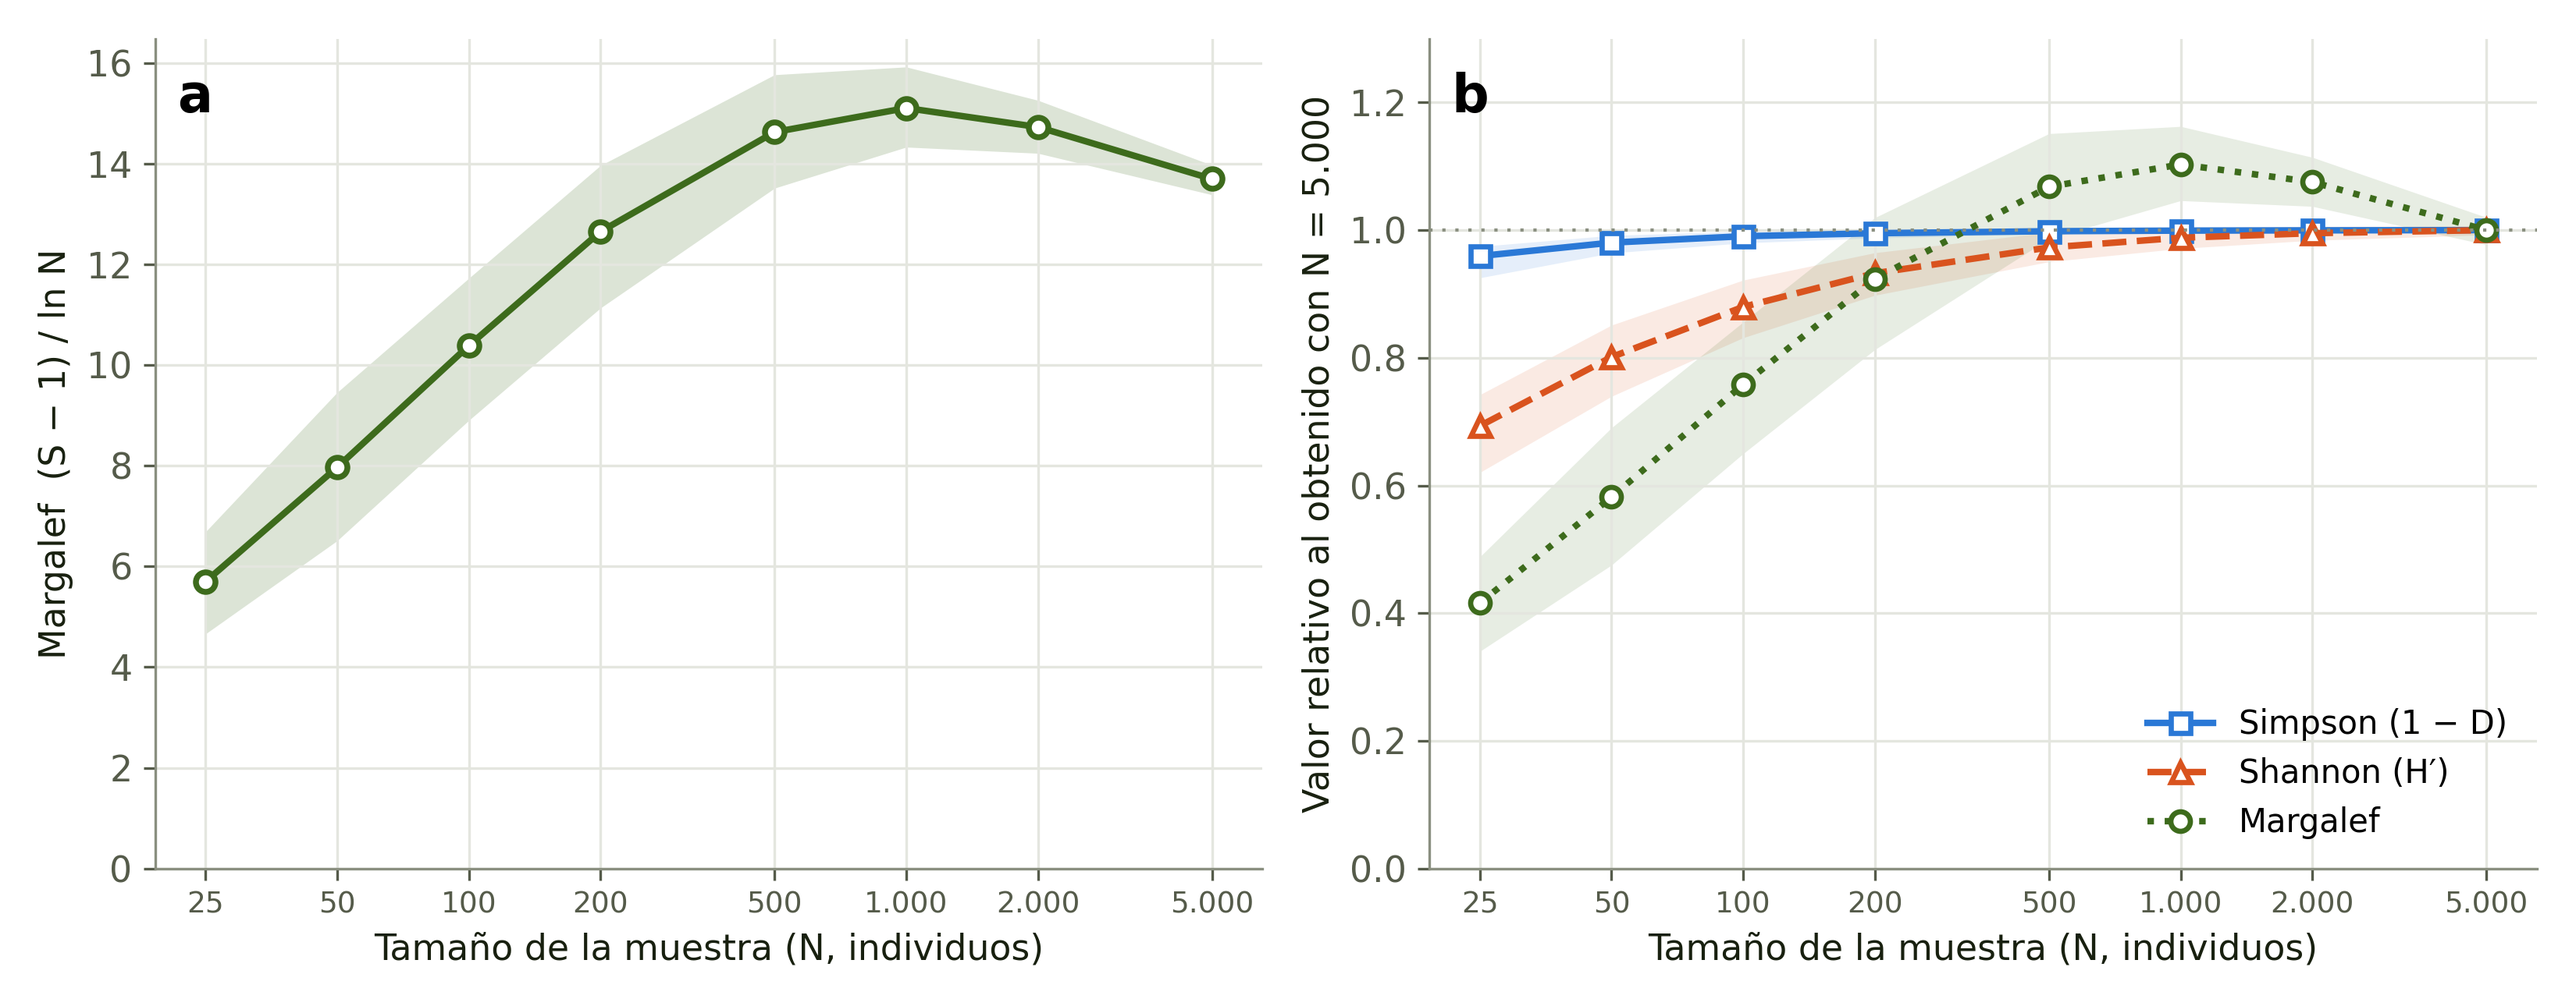
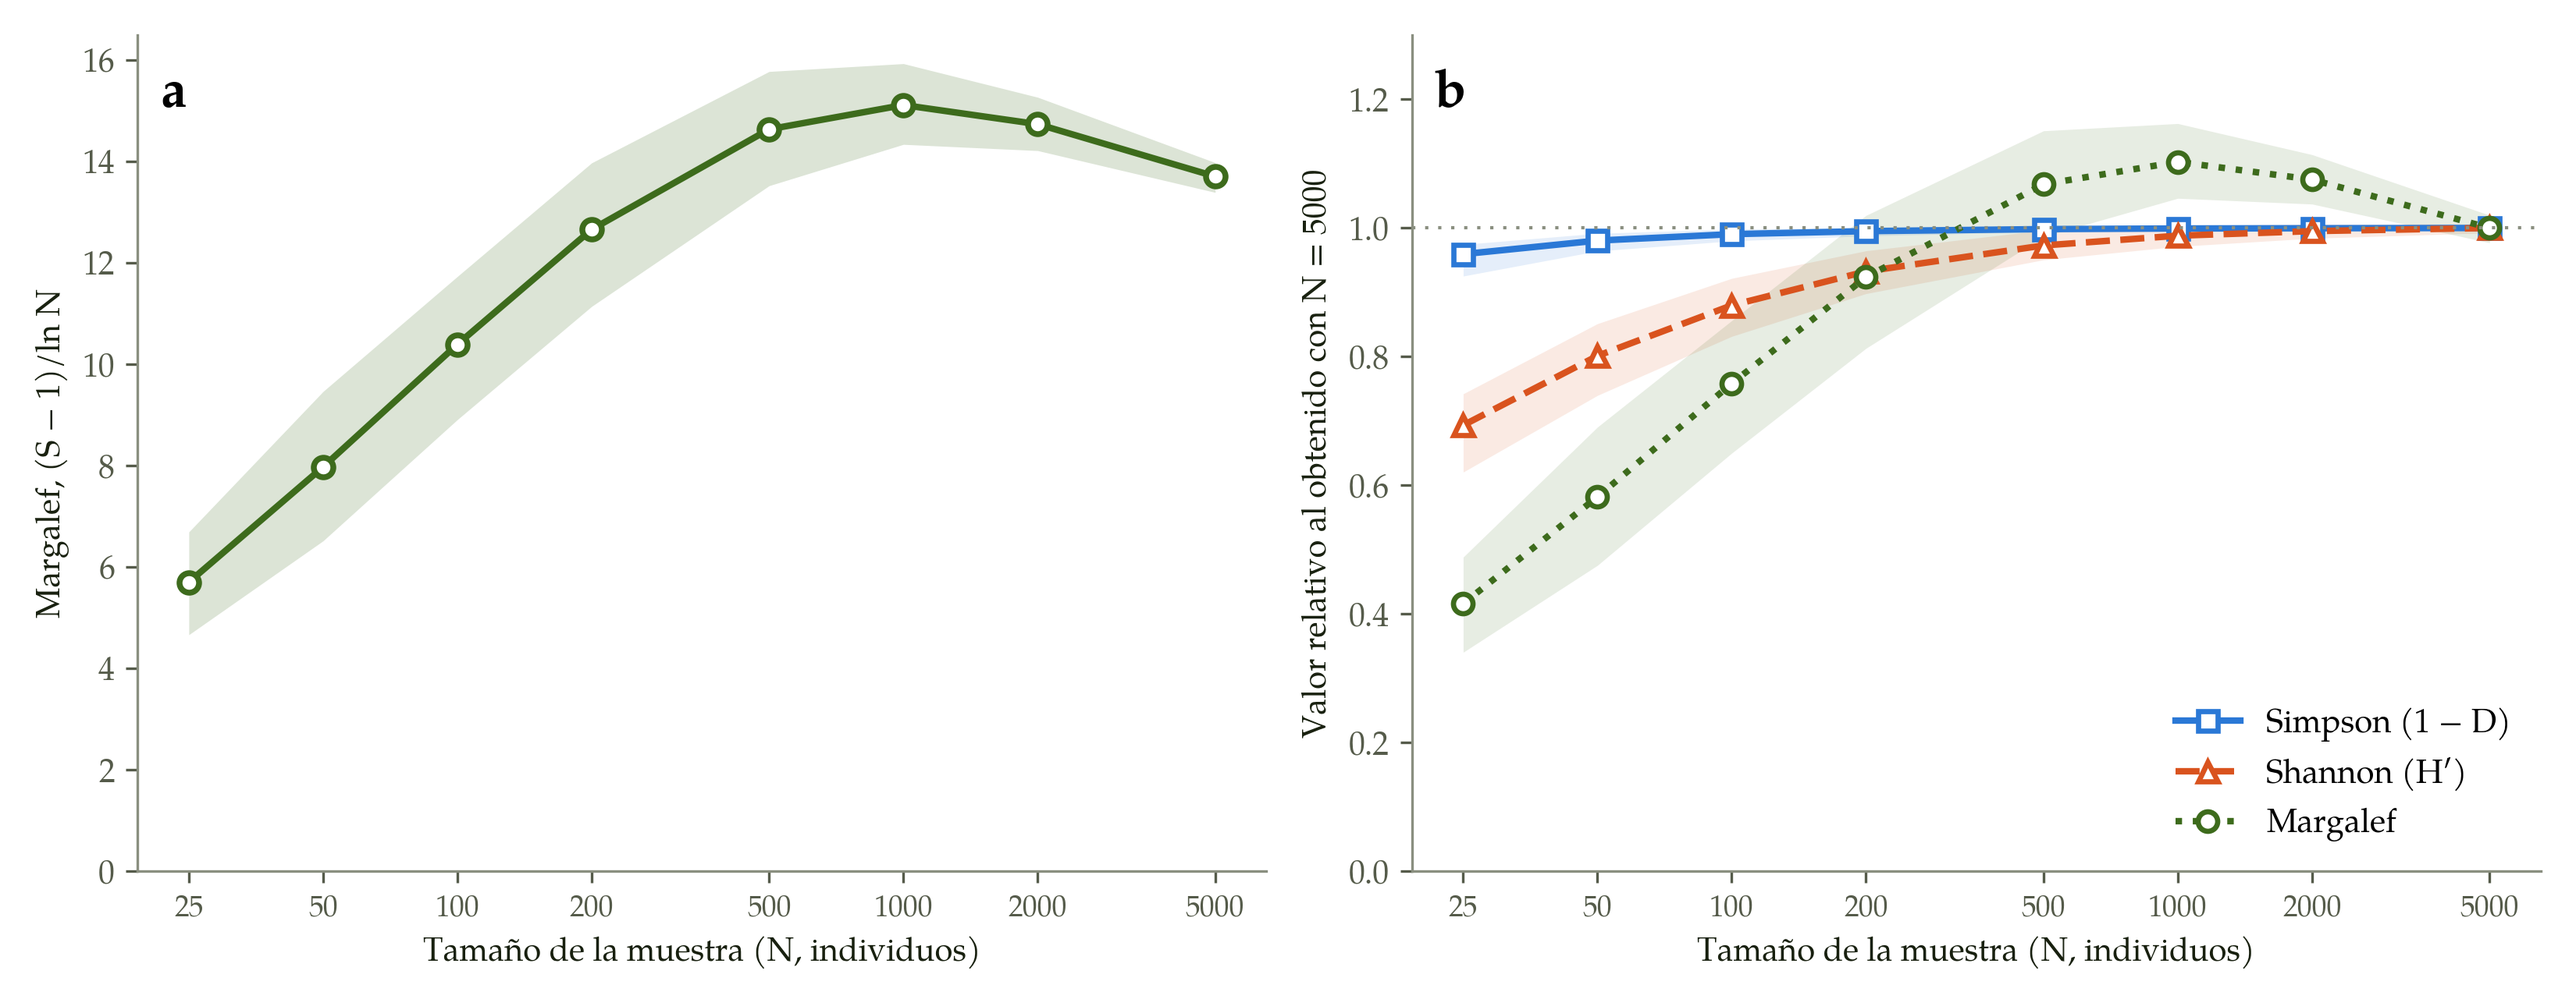
Figuras redibujadas con matplotlib; scripts nuevos

diff --git a/figuras/fig1_calcular.js b/figuras/fig1_calcular.js
@@ -1,0 +1,19 @@
+// Calcula con las funciones de Kenti (extraídas sin modificar) los resultados de la Figura 1.
+const fs=require('fs');
+const src=fs.readFileSync(__dirname+'/../verificacion/kenti_core.js','utf8');
+globalThis.pcaVarDefs=()=>[{k:'S'},{k:'N'},{k:'J'},{k:'H'}];
+globalThis.okNum=x=>x!=null&&isFinite(x);
+eval(src+';globalThis.K={alpha,brayCurtis,upgma,pcaCompute}');
+const S0=JSON.parse(fs.readFileSync(__dirname+'/sim_state.json','utf8'));
+const I={sites:S0.state.sites.map(x=>x.code),names:S0.state.sites.map(x=>x.name),counts:S0.counts};
+const n=I.counts.length;
+const M=I.counts.map((a,i)=>I.counts.map((b,j)=>i===j?1:K.brayCurtis(a,b)));
+const U=K.upgma(M);
+const clean=t=>t.leaf?{leaf:true,members:t.members}:{h:t.h,members:t.members,left:clean(t.left),right:clean(t.right)};
+const rows=I.counts.map(v=>{const a=K.alpha(v);return {S:a.S,N:a.N,J:a.J,H:a.H};});
+const P=K.pcaCompute(rows,['S','N','J','H']);
+const out={sites:I.sites,names:I.names,bc:M,ccc:U.ccc,tree:clean(U.root),
+ vars:P.vars.map(v=>v.k),pct:P.comps.map(c=>c.pct),loadings:P.comps.map(c=>c.loadings),scores:P.comps.map(c=>c.scores)};
+fs.writeFileSync(__dirname+'/fig1_out.json',JSON.stringify(out));
+console.log('ccc',U.ccc.toFixed(3),'pct',P.comps.map(c=>c.pct.toFixed(1)).join(' '));
+console.log(M.map(r=>r.map(x=>x.toFixed(2)).join(' ')).join('\n'));

diff --git a/figuras/fig1_graficar.py b/figuras/fig1_graficar.py
@@ -1,0 +1,59 @@
+# Figura 1: dibuja con matplotlib los resultados calculados por fig1_calcular.js (funciones de Kenti).
+import json,numpy as np,matplotlib,glob
+matplotlib.use('Agg')
+import matplotlib.pyplot as plt
+from matplotlib import font_manager as fm
+for f in glob.glob('/usr/share/texmf/fonts/opentype/public/tex-gyre/texgyrepagella-*.otf'): fm.fontManager.addfont(f)
+plt.rcParams.update({'font.family':'TeX Gyre Pagella','font.size':9,'axes.spines.top':False,'axes.spines.right':False,'axes.linewidth':0.8,'mathtext.fontset':'stix'})
+O=json.load(open('fig1_out.json'))
+sites=O['sites']; n=len(sites); BC=np.array(O['bc'])
+fig=plt.figure(figsize=(7.2,6.6),dpi=300)
+gs=fig.add_gridspec(2,2,height_ratios=[1,1.15],hspace=0.38,wspace=0.32,left=0.08,right=0.98,top=0.92,bottom=0.08)
+def tag(ax,l): ax.text(-0.02,1.06,l,transform=ax.transAxes,fontsize=13,fontweight='bold',va='bottom',ha='right')
+# a) matriz de Bray-Curtis
+a=fig.add_subplot(gs[0,0]); tag(a,'a')
+Mm=np.ma.masked_where(np.eye(n,dtype=bool),BC)
+im=a.imshow(Mm,cmap='Greens',vmin=0.3,vmax=1,aspect='equal')
+for i in range(n):
+    for j in range(n):
+        if i!=j:
+            a.text(j,i,f'{BC[i,j]:.2f}',ha='center',va='center',fontsize=7.5,color='white' if BC[i,j]>0.6 else 'black')
+a.set_xticks(range(n)); a.set_yticks(range(n)); a.set_xticklabels(sites); a.set_yticklabels(sites)
+a.xaxis.tick_top(); a.tick_params(length=0)
+for s in a.spines.values(): s.set_visible(False)
+# b) dendrograma UPGMA
+b=fig.add_subplot(gs[0,1]); tag(b,'b')
+order=[]
+def leaves(t):
+    if 'left' not in t: order.append(t['members'][0]); return
+    leaves(t['left']); leaves(t['right'])
+leaves(O['tree']); ypos={m:i for i,m in enumerate(order)}
+def draw(t):
+    if 'left' not in t: return ypos[t['members'][0]],1.0
+    yl,hl=draw(t['left']); yr,hr=draw(t['right']); h=t['h']
+    b.plot([hl,h,h,hr],[yl,yl,yr,yr],color='black',lw=1)
+    return (yl+yr)/2,h
+draw(O['tree'])
+b.set_xlim(1,0); b.set_ylim(n-0.5,-0.5); b.set_yticks(range(n)); b.set_yticklabels([sites[m] for m in order])
+b.set_xlabel('Similitud de Bray-Curtis'); b.spines['left'].set_visible(False); b.tick_params(axis='y',length=0)
+b.text(0.98,0.08,f"Correlación cofenética = {O['ccc']:.3f}",transform=b.transAxes,ha='right',fontsize=8)
+# c) biplot PCA
+c=fig.add_subplot(gs[1,0]); tag(c,'c')
+sc1,sc2=np.array(O['scores'][0]),np.array(O['scores'][1]); L=np.array([O['loadings'][0],O['loadings'][1]]).T
+k=0.85*max(abs(sc1).max(),abs(sc2).max())/np.abs(L).max()
+c.axhline(0,color='#999999',lw=0.6,ls='--'); c.axvline(0,color='#999999',lw=0.6,ls='--')
+for i,s in enumerate(sites):
+    c.plot(sc1[i],sc2[i],'o',color='black',ms=5); c.annotate(s,(sc1[i],sc2[i]),xytext=(4,4),textcoords='offset points',fontsize=8)
+lab={'S':'S','N':'N','J':'J′','H':'H′'}
+for v,(lx,ly) in zip(O['vars'],L):
+    c.annotate('',xy=(lx*k,ly*k),xytext=(0,0),arrowprops=dict(arrowstyle='-|>',color='#d9531e',lw=1.4))
+    c.text(lx*k*1.1,ly*k*1.1,lab[v],color='#d9531e',fontsize=9,ha='center',va='center',fontweight='bold')
+c.set_xlabel(f"CP 1 ({O['pct'][0]:.1f}%)"); c.set_ylabel(f"CP 2 ({O['pct'][1]:.1f}%)")
+lim=max(abs(sc1).max(),abs(sc2).max(),np.abs(L).max()*k)*1.25; c.set_xlim(-lim,lim); c.set_ylim(-lim,lim); c.set_aspect('equal')
+# d) varianza explicada
+d=fig.add_subplot(gs[1,1]); tag(d,'d')
+p=O['pct']; d.bar(range(len(p)),p,color='#2a78d6',width=0.6)
+for i,v in enumerate(p): d.text(i,v+1.5,f'{v:.1f}%',ha='center',fontsize=8)
+d.set_xticks(range(len(p))); d.set_xticklabels([f'CP {i+1}' for i in range(len(p))]); d.set_ylim(0,100)
+d.set_ylabel('Varianza explicada (%)'); d.set_xlabel('Eje')
+fig.savefig('figura1.png',dpi=300,facecolor='white'); print('ok')

diff --git a/figuras/fig2_graficar.py b/figuras/fig2_graficar.py
@@ -3,8 +3,8 @@ matplotlib.use('Agg')
 import matplotlib.pyplot as plt
 from matplotlib import font_manager as fm
 import glob
-for f in glob.glob('/usr/share/fonts/**/DejaVuSans*.ttf',recursive=True): fm.fontManager.addfont(f)
-plt.rcParams.update({'font.family':'DejaVu Sans','font.size':11,'axes.spines.top':False,'axes.spines.right':False,'axes.edgecolor':'#8a8f80','axes.labelcolor':'#18200f','xtick.color':'#555b4a','ytick.color':'#555b4a','axes.grid':True,'grid.color':'#e4e6df','grid.linewidth':0.8})
+for f in glob.glob('/usr/share/texmf/fonts/opentype/public/tex-gyre/texgyrepagella-*.otf'): fm.fontManager.addfont(f)
+plt.rcParams.update({'font.family':'TeX Gyre Pagella','font.size':10,'axes.spines.top':False,'axes.spines.right':False,'axes.edgecolor':'#8a8f80','axes.labelcolor':'#18200f','xtick.color':'#555b4a','ytick.color':'#555b4a','axes.grid':False})
 O=json.load(open('fig2_out.json')); Ns=sorted(int(k) for k in O)
 def arr(k,key): return np.array([[r[key] for r in O[str(n)]] for n in Ns],float)
 Mg,H,Sp=arr(0,'Mg'),arr(0,'H'),arr(0,'Simp')
@@ -14,8 +14,8 @@ fig,ax=plt.subplots(1,2,figsize=(11,4.3),dpi=300)
 a=ax[0]
 a.fill_between(Ns,lo(Mg),hi(Mg),color=G,alpha=.18,lw=0)
 a.plot(Ns,mean(Mg),color=G,lw=2,marker='o',ms=6,mfc='white',mew=1.8)
-a.set_xscale('log'); a.set_xticks(Ns); a.set_xticklabels([f'{n:,}'.replace(',','.') for n in Ns],rotation=0,fontsize=9)
-a.minorticks_off(); a.set_xlabel('Tamaño de la muestra (N, individuos)'); a.set_ylabel('Margalef  (S − 1) / ln N')
+a.set_xscale('log'); a.set_xticks(Ns); a.set_xticklabels([str(n) for n in Ns],rotation=0,fontsize=9)
+a.minorticks_off(); a.set_xlabel('Tamaño de la muestra (N, individuos)'); a.set_ylabel('Margalef, (S − 1)/ln N')
 a.text(0.02,0.96,'a',transform=a.transAxes,fontsize=16,fontweight='bold',va='top')
 a.set_ylim(0,None)
 b=ax[1]
@@ -24,8 +24,8 @@ for A,c,ls,mk,lab in [(Sp,BL,'-','s','Simpson (1 − D)'),(H,OR,'--','^','Shanno
     R=rel(A); b.fill_between(Ns,np.percentile(R,2.5,axis=1),np.percentile(R,97.5,axis=1),color=c,alpha=.12,lw=0)
     b.plot(Ns,R.mean(1),color=c,lw=2,ls=ls,marker=mk,ms=6,mfc='white',mew=1.6,label=lab)
 b.axhline(1,color='#8a8f80',lw=1,ls=(0,(1,3)))
-b.set_xscale('log'); b.set_xticks(Ns); b.set_xticklabels([f'{n:,}'.replace(',','.') for n in Ns],fontsize=9); b.minorticks_off()
-b.set_xlabel('Tamaño de la muestra (N, individuos)'); b.set_ylabel('Valor relativo al obtenido con N = 5.000')
+b.set_xscale('log'); b.set_xticks(Ns); b.set_xticklabels([str(n) for n in Ns],fontsize=9); b.minorticks_off()
+b.set_xlabel('Tamaño de la muestra (N, individuos)'); b.set_ylabel('Valor relativo al obtenido con N = 5000')
 b.set_ylim(0,1.3)
 b.legend(frameon=False,loc='lower right',fontsize=10)
 b.text(0.02,0.96,'b',transform=b.transAxes,fontsize=16,fontweight='bold',va='top')
